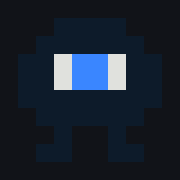
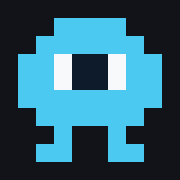
Make the player sprite visible against the black background
The player body was painted almost-black (#0d1b2a), which was nearly
indistinguishable from the pure-black room background -- only the 2-3
light eye/visor pixels (out of ~30 in the sprite) stood out, making it
look like just a pair of eyes was moving around.

Swaps the player palette: body -> bright saturated blue (#4cc9f0, was
the near-black), visor -> the old near-black color repurposed as a
contrast accent, eyes -> a crisp near-white (#f8f9fa, was light gray).
Silhouette/pattern is unchanged, only the palette.

Also updates tools/icon-gen.html's copy of the same pattern/palette
(documented in CONTRIBUTING.md as needing to be kept in sync by hand)
and regenerates all 4 app icons so they match the in-game sprite.

diff --git a/src/game/sprites.js b/src/game/sprites.js
@@ -66,7 +66,13 @@ const PATTERNS = {
 };
 
 const PALETTES = {
-  player: { '1': '#0d1b2a', '0': '#e0e1dd', '2': '#3a86ff' },
+  // Body ('1') was near-black (#0d1b2a) and disappeared against the black
+  // room background -- only the eye/visor pixels ('0'/'2', ~3 cells out of
+  // ~30) were visible. Swapped to a bright, saturated blue for the body so
+  // the whole silhouette reads clearly, with the old near-black promoted to
+  // an accent color for the visor stripe so the "face" detail still pops
+  // against the now-bright body.
+  player: { '1': '#4cc9f0', '0': '#f8f9fa', '2': '#0d1b2a' },
   enemy1: { '1': '#1a0000', '3': '#d62828', '0': '#ffd166' },
   enemy2: { '1': '#1a0f00', '4': '#f77f00', '0': '#03071e' },
   shadow: { '5': '#7b2cbf' },

diff --git a/tools/icon-gen.html b/tools/icon-gen.html
@@ -28,7 +28,7 @@ const PATTERN = [
   '..1..1..',
   '.11..11.',
 ];
-const COLORS = { '1': '#0d1b2a', '0': '#e0e1dd', '2': '#3a86ff' };
+const COLORS = { '1': '#4cc9f0', '0': '#f8f9fa', '2': '#0d1b2a' };
 const BG = '#111318';
 
 function drawIcon(canvasId, size, paddingRatio) {
